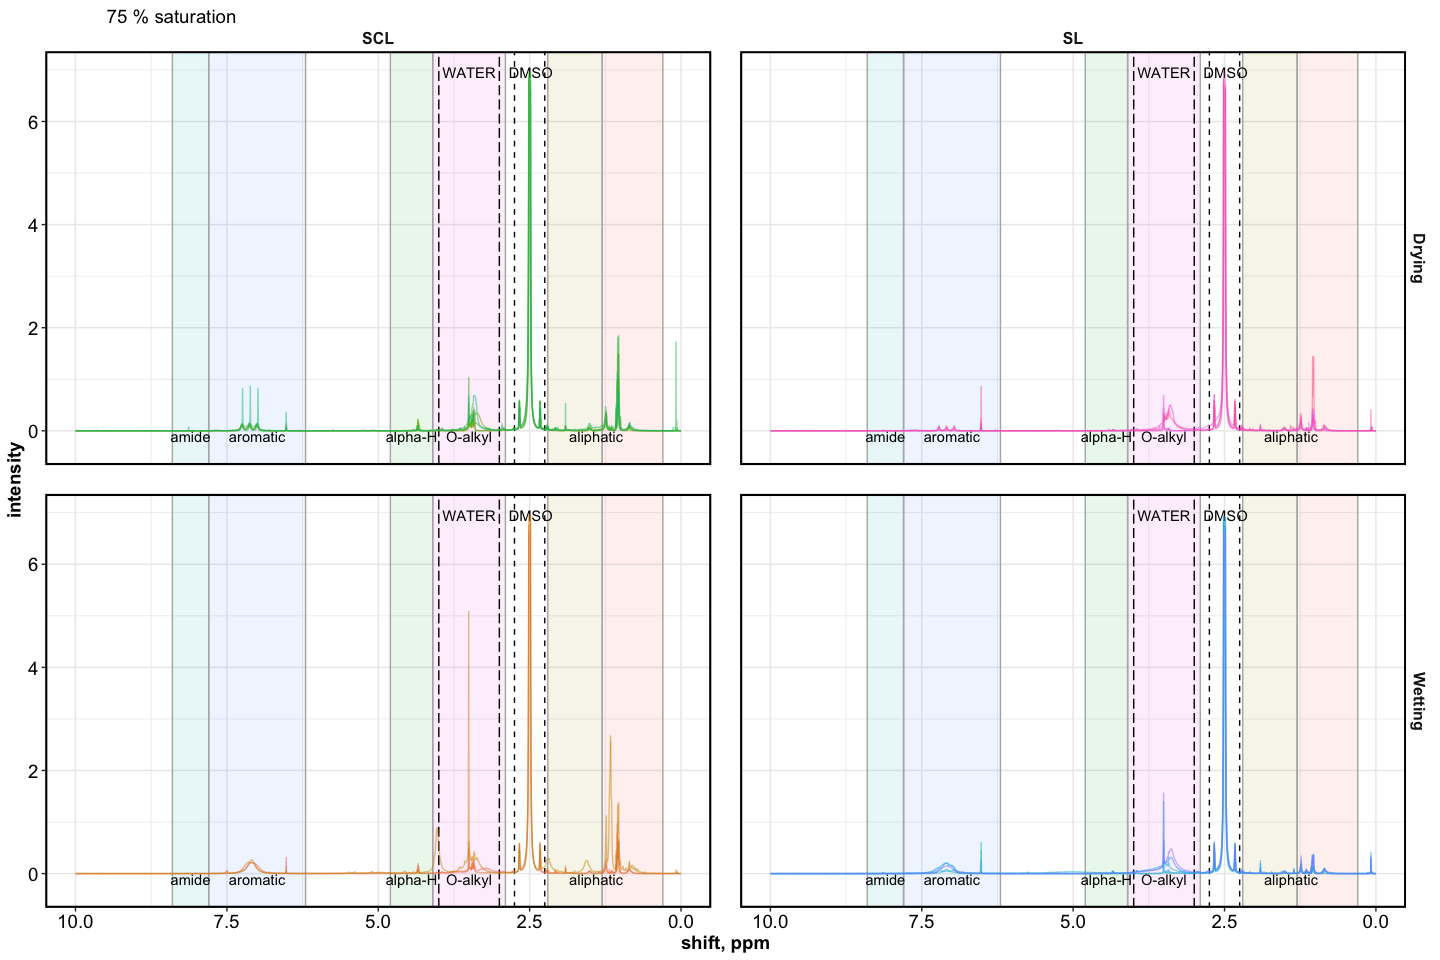
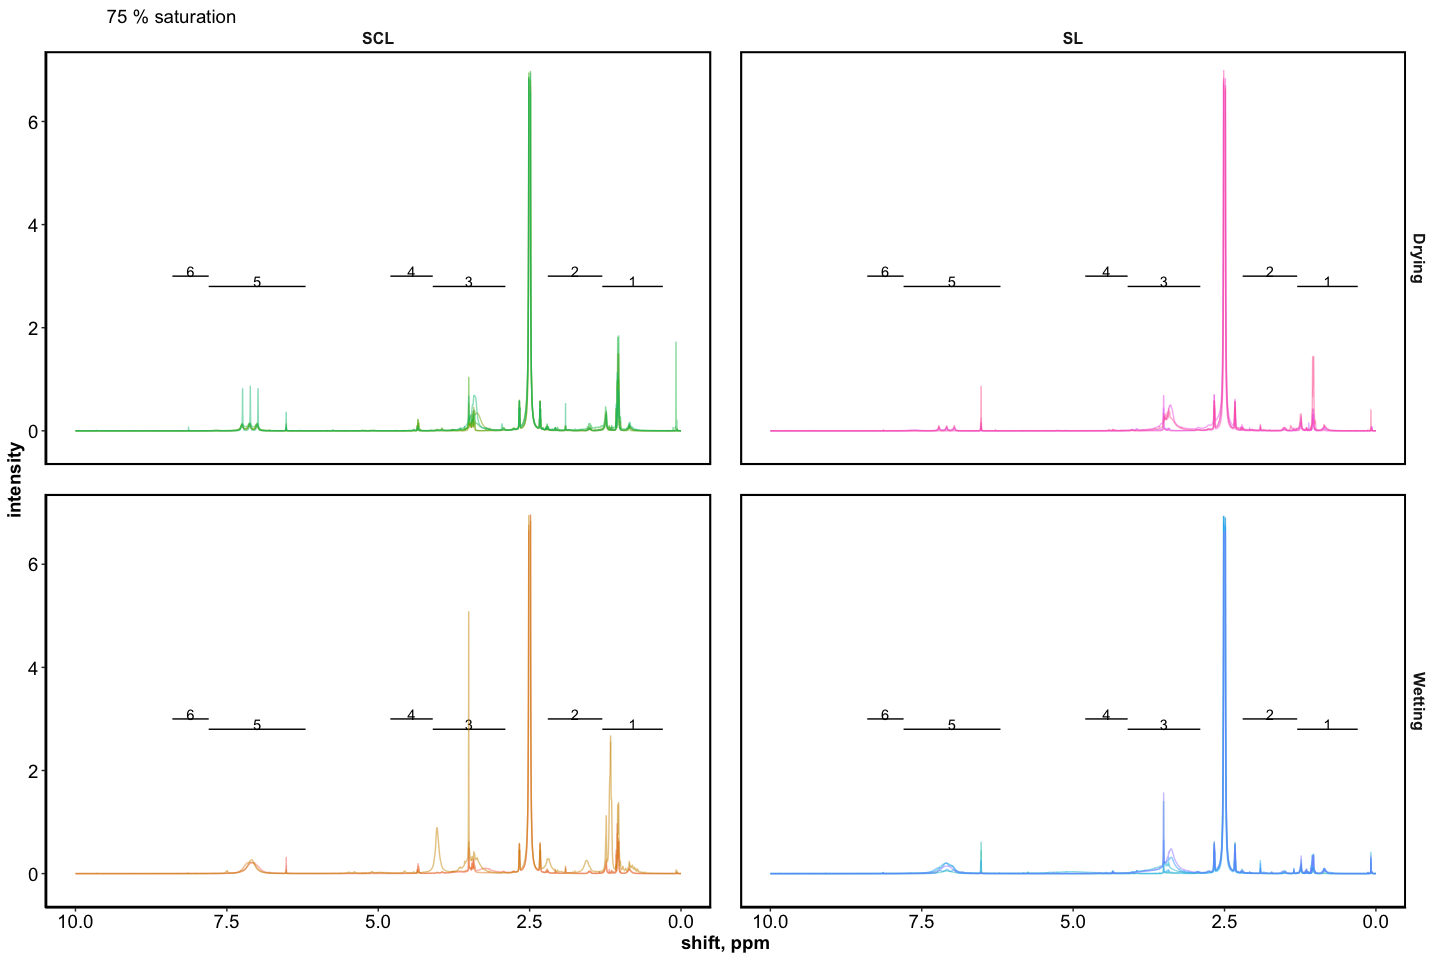
add representative nmr spectra. and bar graphs.

diff --git a/7b-nmr_markdown.md b/7b-nmr_markdown.md
@@ -5,15 +5,16 @@ Kaizad Patel
 
 ## SPECTRA
 
+#### spectra
+
 SCL = sandy clay loam (soil)  
-SL = sandy loam (soil +
-sand)
+SL = sandy loam (soil + sand)
 
 ![](images/7b-nmr_markdown/nmr_spectra_fm-1.png)<!-- -->
 
 ![](images/7b-nmr_markdown/nmr_spectra-1.png)<!-- -->![](images/7b-nmr_markdown/nmr_spectra-2.png)<!-- -->![](images/7b-nmr_markdown/nmr_spectra-3.png)<!-- -->![](images/7b-nmr_markdown/nmr_spectra-4.png)<!-- -->![](images/7b-nmr_markdown/nmr_spectra-5.png)<!-- -->
 
-representative spectra – 50 % saturation
+#### representative spectra – 50 % saturation
 
 ![](images/7b-nmr_markdown/nmr_spectra_50_perc-1.png)<!-- -->
 
@@ -33,16 +34,13 @@ relative abundance for each sample
     #> Standard deviation     1.4709 1.2435 0.8293 0.7762 0.0002099
     #> Proportion of Variance 0.4327 0.3093 0.1376 0.1205 0.0000000
     #> Cumulative Proportion  0.4327 0.7419 0.8795 1.0000 1.0000000
-
-![](images/7b-nmr_markdown/nmr_pca-1.png)<!-- -->
-
     #> Importance of components:
     #>                           PC1    PC2    PC3     PC4       PC5
     #> Standard deviation     1.4545 1.2844 0.9090 0.63921 0.0001483
     #> Proportion of Variance 0.4231 0.3299 0.1653 0.08172 0.0000000
     #> Cumulative Proportion  0.4231 0.7530 0.9183 1.00000 1.0000000
 
-![](images/7b-nmr_markdown/nmr_pca-2.png)<!-- -->
+![](images/7b-nmr_markdown/nmr_pca-1.png)<!-- -->
 
 ## RELATIVE ABUNDANCE
 
@@ -57,8 +55,7 @@ peaks in field moist soils
 |     alphah |    0.64 ± NA |    1.36 ± NA |
 |   aromatic | 47.62 ± 7.38 | 26.39 ± 3.71 |
 
-peaks in
-treatments
+peaks in treatments
 
 | texture |      group |   100-Drying |  100-Wetting |    35-Drying |   35-Wetting |     5-Drying |    5-Wetting |    50-Drying |    50-Wetting |    75-Drying |   75-Wetting |
 | ------: | ---------: | -----------: | -----------: | -----------: | -----------: | -----------: | -----------: | -----------: | ------------: | -----------: | -----------: |
@@ -94,4 +91,4 @@ field moist waffle plots
 
 ### more viz
 
-![](images/7b-nmr_markdown/relabund_bubble-1.png)<!-- -->
+![](images/7b-nmr_markdown/relabund_bubble-1.png)<!-- -->![](images/7b-nmr_markdown/relabund_bubble-2.png)<!-- -->
